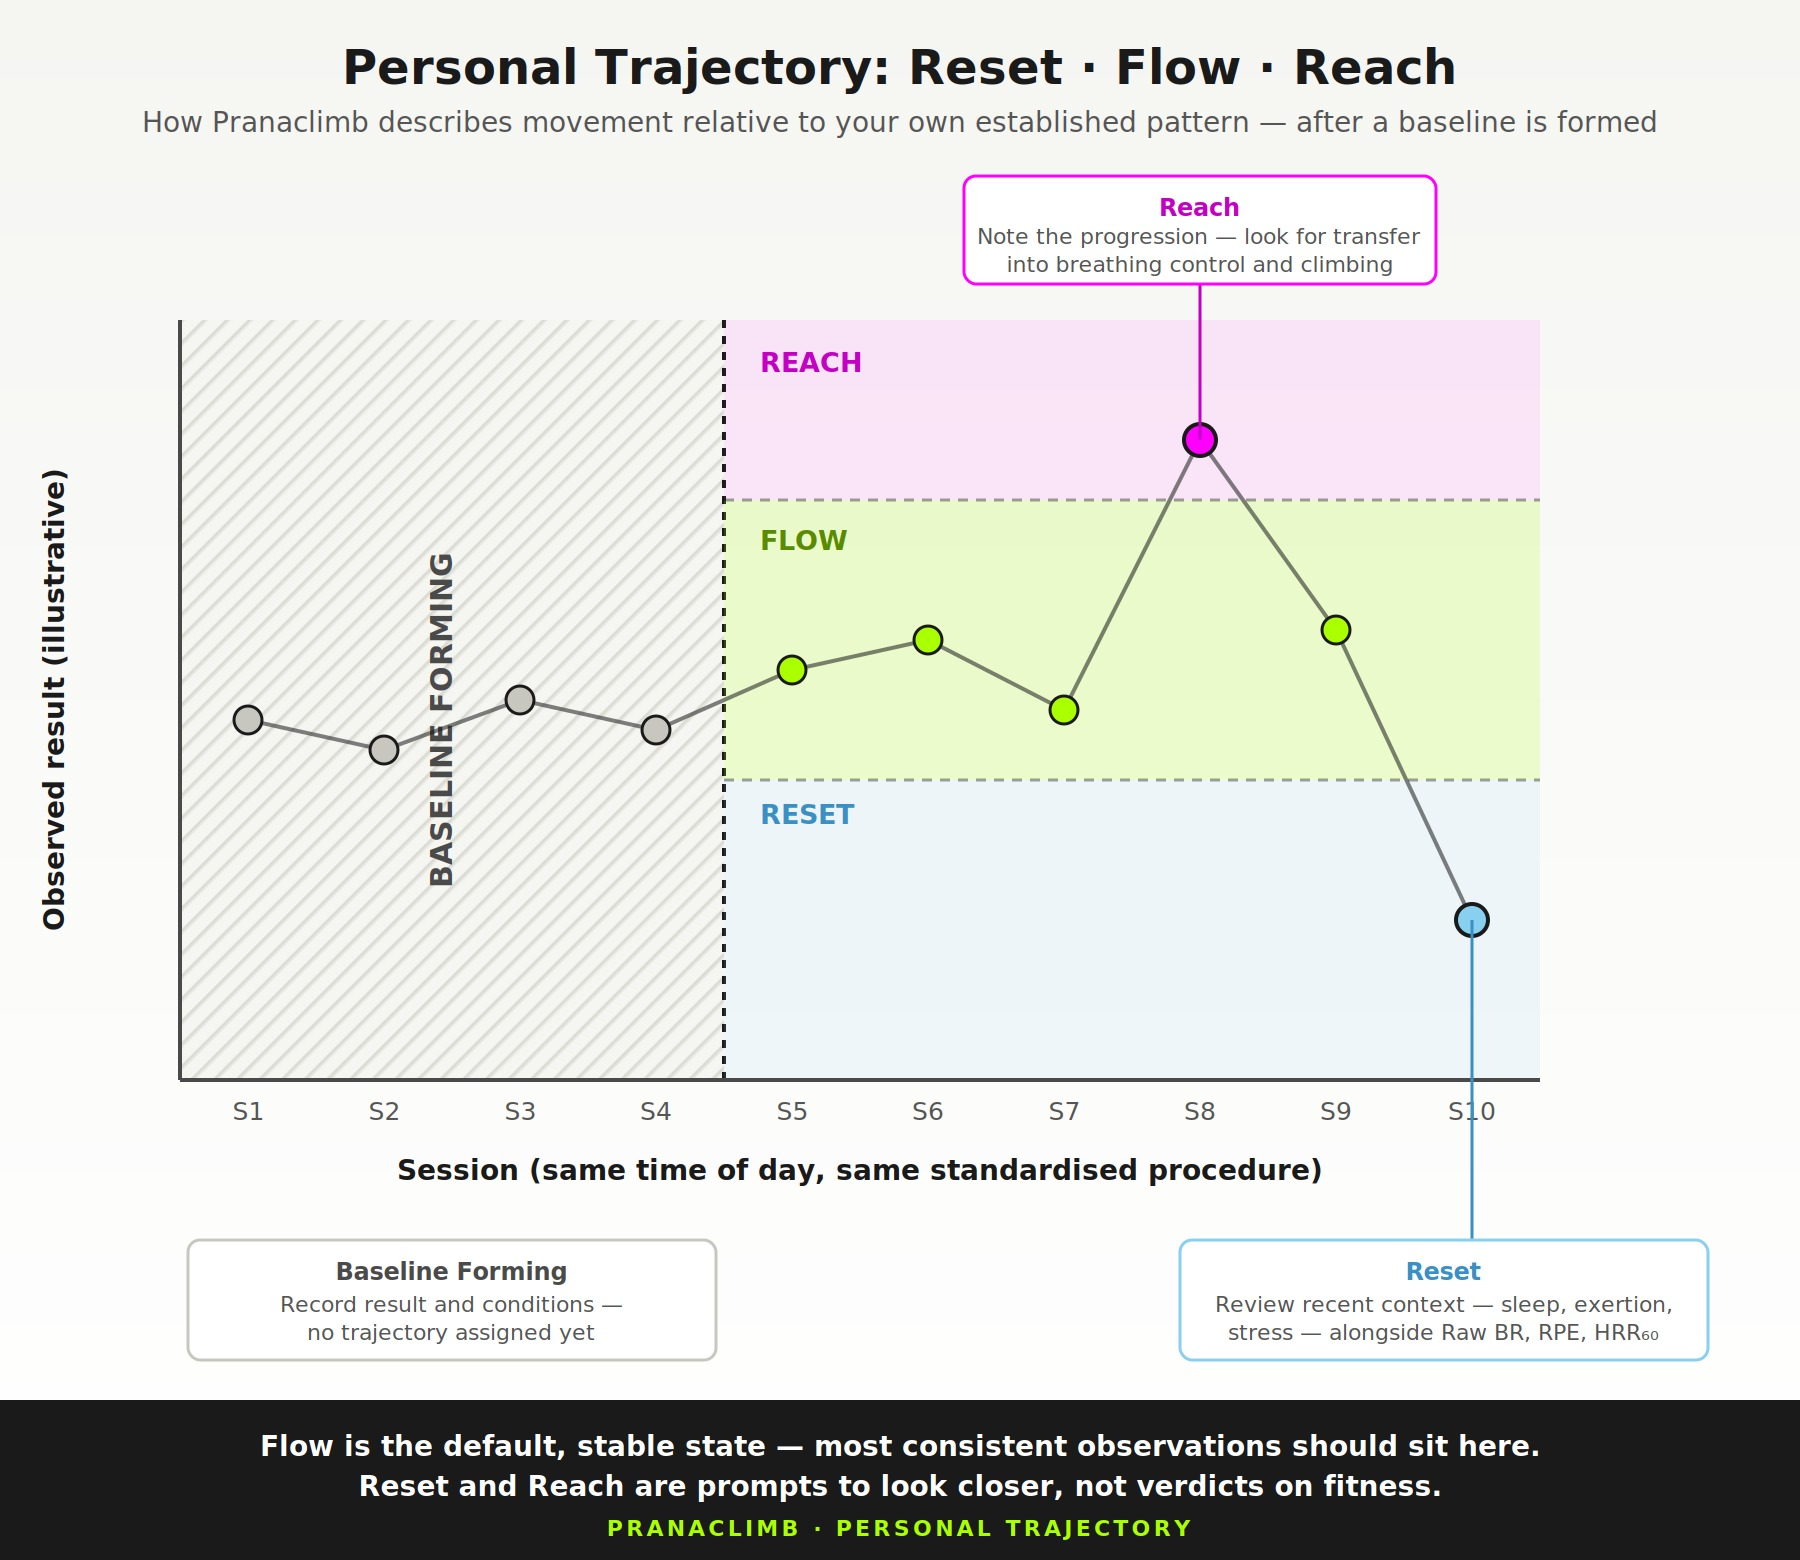
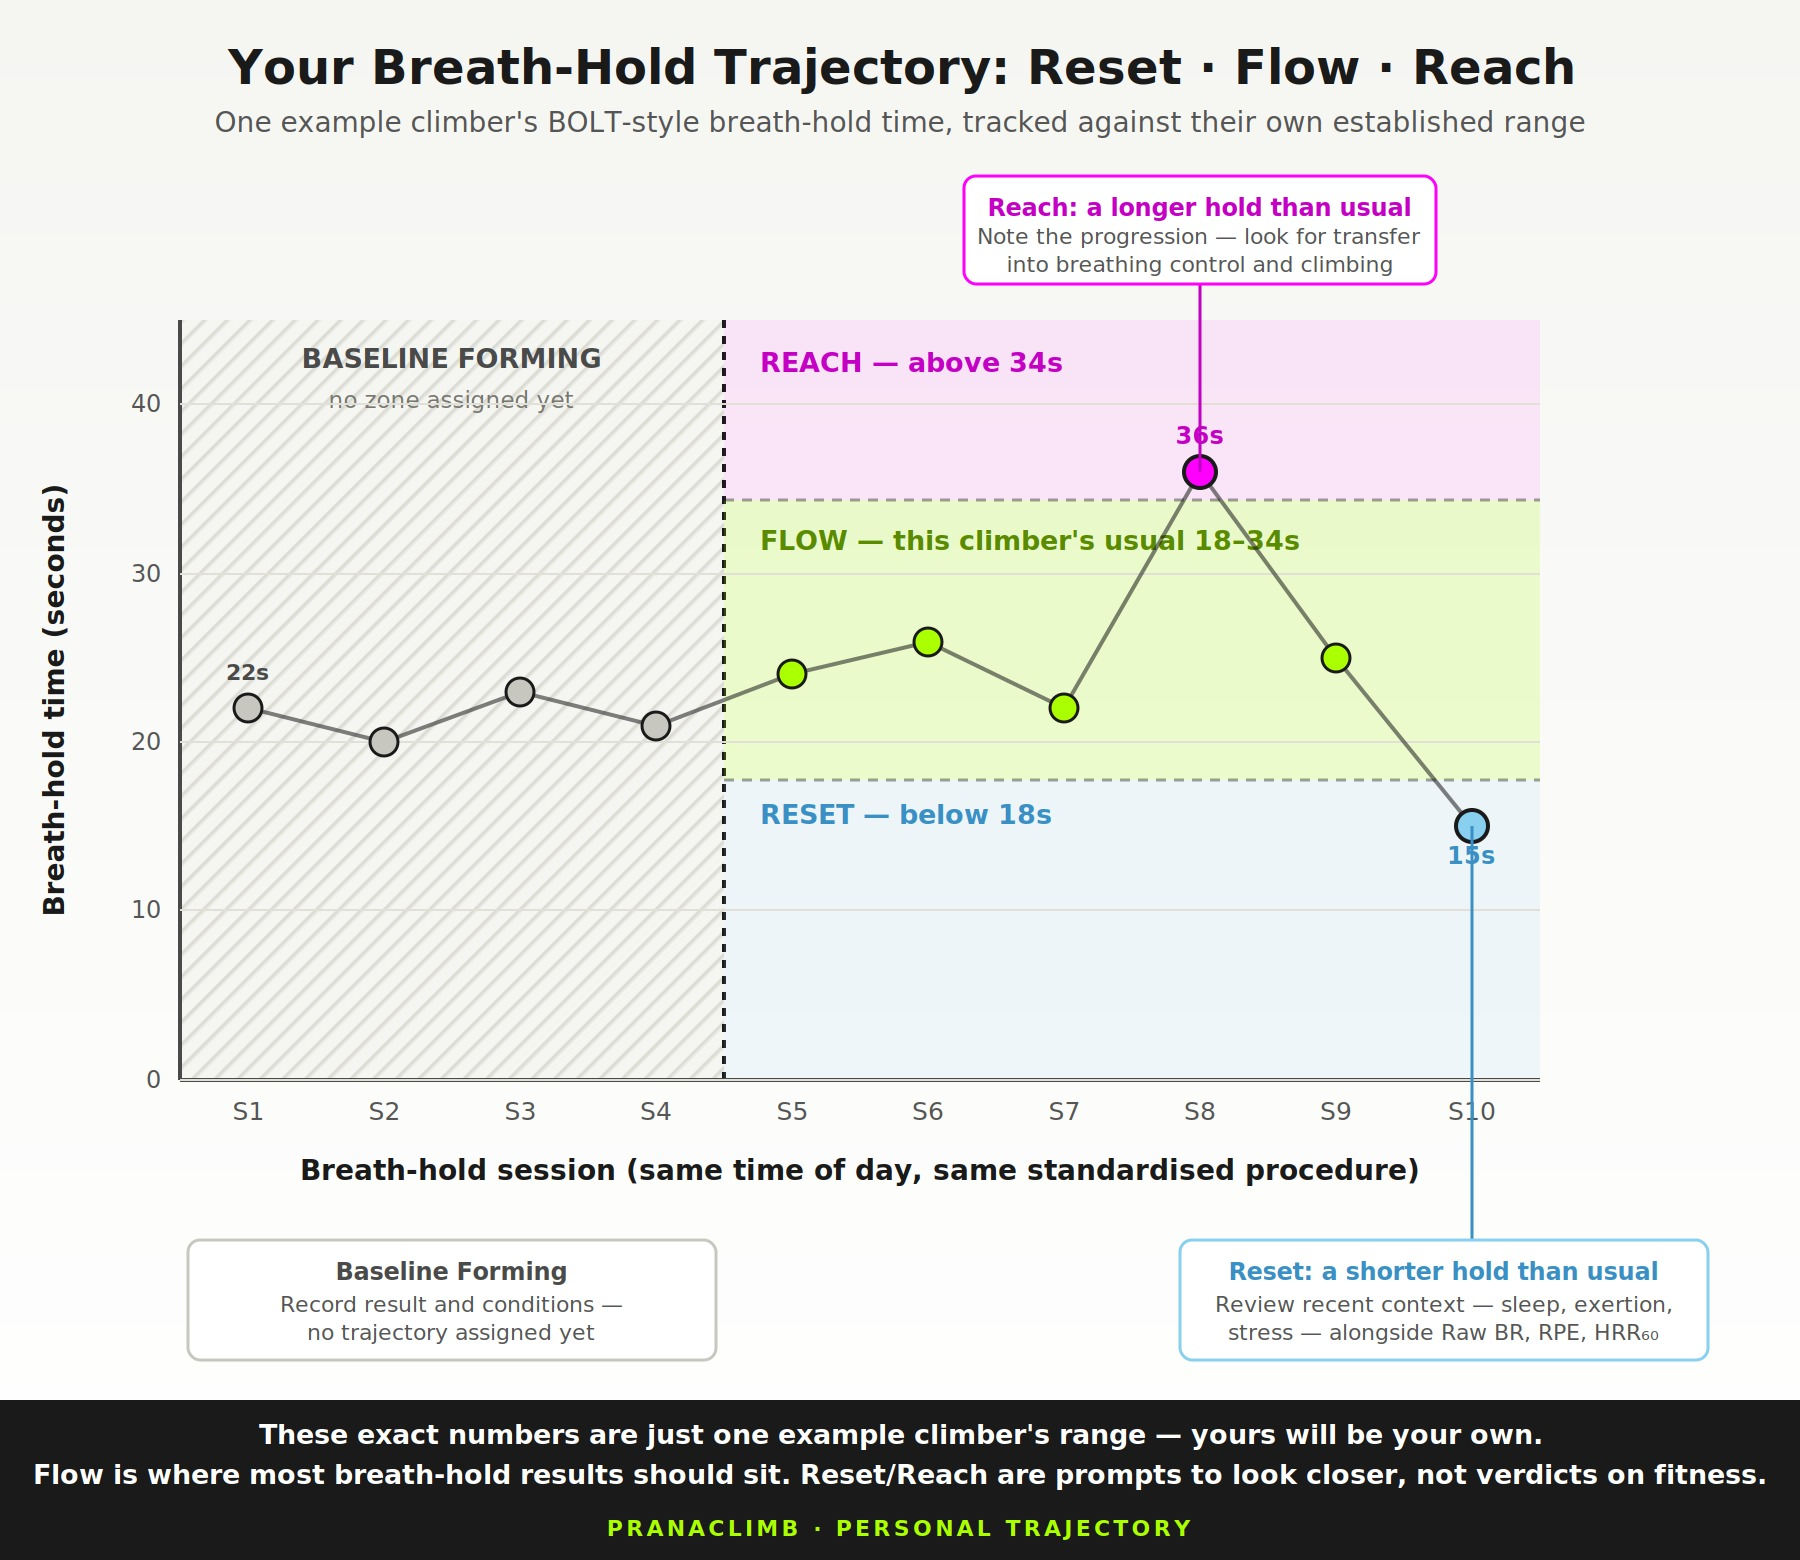
Revise CO2 tolerance article chart

diff --git a/blog-co2-tolerance.html b/blog-co2-tolerance.html
@@ -231,7 +231,7 @@
       </div>
       <span class="meta-date">By Annie Anderson</span>
       <span class="meta-date">Updated September 2026</span>
-      <span class="meta-date" style="color:var(--pink);font-weight:600;">12 min read</span>
+      <span class="meta-date" style="color:var(--pink);font-weight:600;">19 min read</span>
     </div>
   </div>
 </div>
@@ -393,8 +393,8 @@
     </table>
 
     <figure class="article-img">
-      <img src="images/reset-flow-reach-trajectory-chart.jpg" alt="Chart showing ten example sessions: an initial Baseline Forming period, then results plotted against Reset, Flow and Reach zones" />
-      <figcaption>Flow is where most consistent results should sit. A Reset or Reach reading is a prompt to look at context — not a verdict on fitness, readiness or climbing performance.</figcaption>
+      <img src="images/reset-flow-reach-trajectory-chart.jpg" alt="Chart showing one example climber's BOLT-style breath-hold time in seconds across ten sessions: an initial Baseline Forming period, then results plotted against Reset, Flow and Reach zones" />
+      <figcaption>An illustrative example: this climber's own Flow range is 18–34 seconds. The exact numbers are personal — yours will be your own — but Flow is where most breath-hold results should sit, with Reset or Reach as prompts to look closer, not verdicts on fitness.</figcaption>
     </figure>
 
     <div class="hl pink">
@@ -447,6 +447,78 @@
         <tr><td><strong>Comfortable breath hold</strong></td><td>Optional contextual trend in the RBA Deep Dive.</td><td>Not a direct estimator of CP, RCP, W′bal, VO₂max or performance.</td></tr>
       </tbody>
     </table>
+
+    <h2>The Eight-Week Pranaclimb Timeline</h2>
+
+    <h3>Week 0 — Learn the tests</h3>
+    <p>Practise each procedure with the focus on consistency before interpreting the result. Establish the same posture, preparation, stopping point and timing method.</p>
+    <p>Complete breath holds seated or during supervised, obstacle-free walking—never while climbing, belaying, driving or in water.</p>
+
+    <h3>Weeks 1–2 — Establish your personal starting range</h3>
+    <p>Collect several technically consistent observations:</p>
+    <ul class="step-list">
+      <li><span style="color:var(--pink);">→</span><span><strong>BOLT-style hold:</strong> twice each week</span></li>
+      <li><span style="color:var(--pink);">→</span><span><strong>Slow-exhale control:</strong> once each week</span></li>
+      <li><span style="color:var(--pink);">→</span><span><strong>Movement breath hold:</strong> once each week</span></li>
+      <li><span style="color:var(--pink);">→</span><span>Record sleep, recent training, congestion, stress and time of day.</span></li>
+    </ul>
+    <p>Report the method-specific Pranaclimb Orientation from the first result. The first three to five comparable observations form the climber’s starting pattern, so the personal Trajectory remains <strong>Baseline Forming</strong> during this stage.</p>
+
+    <h3>Weeks 3–4 — Build familiarity and control</h3>
+    <p>Use comfortable off-wall practices:</p>
+    <ul class="step-list">
+      <li><span style="color:var(--pink);">→</span><span>Quiet nasal breathing</span></li>
+      <li><span style="color:var(--pink);">→</span><span>Smooth, slightly extended exhalations</span></li>
+      <li><span style="color:var(--pink);">→</span><span>Mild reduced-breathing practice</span></li>
+      <li><span style="color:var(--pink);">→</span><span>Easy nasal-breathing warm-ups</span></li>
+      <li><span style="color:var(--pink);">→</span><span>Relaxed recovery breathing between climbing attempts</span></li>
+    </ul>
+    <p>Continue weekly observations using the same procedures and record the experience as well as the time or step count.</p>
+
+    <h3>Week 5 — Midpoint profile</h3>
+    <p>Repeat all three observations under the original conditions. Retain each test’s current Orientation and compare the result with the climber’s established personal range:</p>
+    <ul class="step-list">
+      <li><span style="color:var(--pink);">→</span><span><strong>Reset</strong> — consistently below the established range under comparable conditions</span></li>
+      <li><span style="color:var(--pink);">→</span><span><strong>Flow</strong> — within the stable personal range</span></li>
+      <li><span style="color:var(--pink);">→</span><span><strong>Reach</strong> — consistently extending beyond the established range under comparable conditions</span></li>
+    </ul>
+    <p>Where fewer than three comparable observations are available, continue with <strong>Baseline Forming</strong>. Interpret repeated patterns together with the recorded conditions.</p>
+
+    <h3>Weeks 6–7 — Transfer awareness to climbing</h3>
+    <p>Use breath awareness during matched submaximal climbs:</p>
+    <ul class="step-list">
+      <li><span style="color:var(--pink);">→</span><span>Record Raw BR and breathing expressions</span></li>
+      <li><span style="color:var(--pink);">→</span><span>Report Effective BR separately when documented expression adjustments are applied</span></li>
+      <li><span style="color:var(--pink);">→</span><span>Record CR-10 RPE</span></li>
+      <li><span style="color:var(--pink);">→</span><span>Measure HRR₆₀ after the climb</span></li>
+      <li><span style="color:var(--pink);">→</span><span>Notice breath holding, rushed ventilation and recovery rhythm</span></li>
+      <li><span style="color:var(--pink);">→</span><span>Allow a natural transition from nasal to oronasal or oral breathing as intensity rises</span></li>
+    </ul>
+    <p>The breath-hold observations remain off-wall. The matched climbing task explores whether developing breath awareness accompanies composed movement, workable ventilation and consistent recovery.</p>
+
+    <h3>Week 8 — Final profile</h3>
+    <p>Repeat the three off-wall observations and the matched climbing task. Compare:</p>
+    <ul class="step-list">
+      <li><span style="color:var(--pink);">→</span><span>Method-specific Orientation and personal Trajectory for BOLT</span></li>
+      <li><span style="color:var(--pink);">→</span><span>Movement breath-hold Orientation and Trajectory</span></li>
+      <li><span style="color:var(--pink);">→</span><span>Slow-exhale control Orientation and Trajectory</span></li>
+      <li><span style="color:var(--pink);">→</span><span>Raw BR and Effective BR</span></li>
+      <li><span style="color:var(--pink);">→</span><span>CR-10 RPE and HRR₆₀</span></li>
+      <li><span style="color:var(--pink);">→</span><span>Subjective composure and breath-control notes</span></li>
+    </ul>
+    <p>Progress may appear as smoother exhalation, greater familiarity with air hunger, a more consistent personal range, improved confidence with breathing cues or a changed BR–RPE–HRR₆₀ pattern during the matched climbing task.</p>
+
+    <h3>Ongoing Pranaclimb coaching schedule</h3>
+    <ul class="step-list">
+      <li><span style="color:var(--pink);">→</span><span><strong>BOLT-style observation:</strong> weekly</span></li>
+      <li><span style="color:var(--pink);">→</span><span><strong>Slow-exhale control:</strong> weekly</span></li>
+      <li><span style="color:var(--pink);">→</span><span><strong>Movement breath hold:</strong> monthly</span></li>
+      <li><span style="color:var(--pink);">→</span><span><strong>Matched climbing and RBA profile:</strong> every four to eight weeks</span></li>
+    </ul>
+
+    <div class="hl lime">
+      <strong>Pranaclimb interpretation:</strong> a change becomes meaningful when it forms a repeated personal pattern and agrees with the climber’s on-wall observations. Training decisions draw on the complete profile—repeated off-wall observations, Raw and Effective BR, CR-10 RPE, HRR₆₀ and the climber’s experience.
+    </div>
 
     <h2>Explore Safely</h2>
     <ul class="step-list">
@@ -502,6 +574,7 @@
         <li>Three Field Observations</li>
         <li>Training the Skill</li>
         <li>Pranaclimb Integration</li>
+        <li>Eight-Week Timeline</li>
         <li>Explore Safely</li>
       </ul>
     </div>
